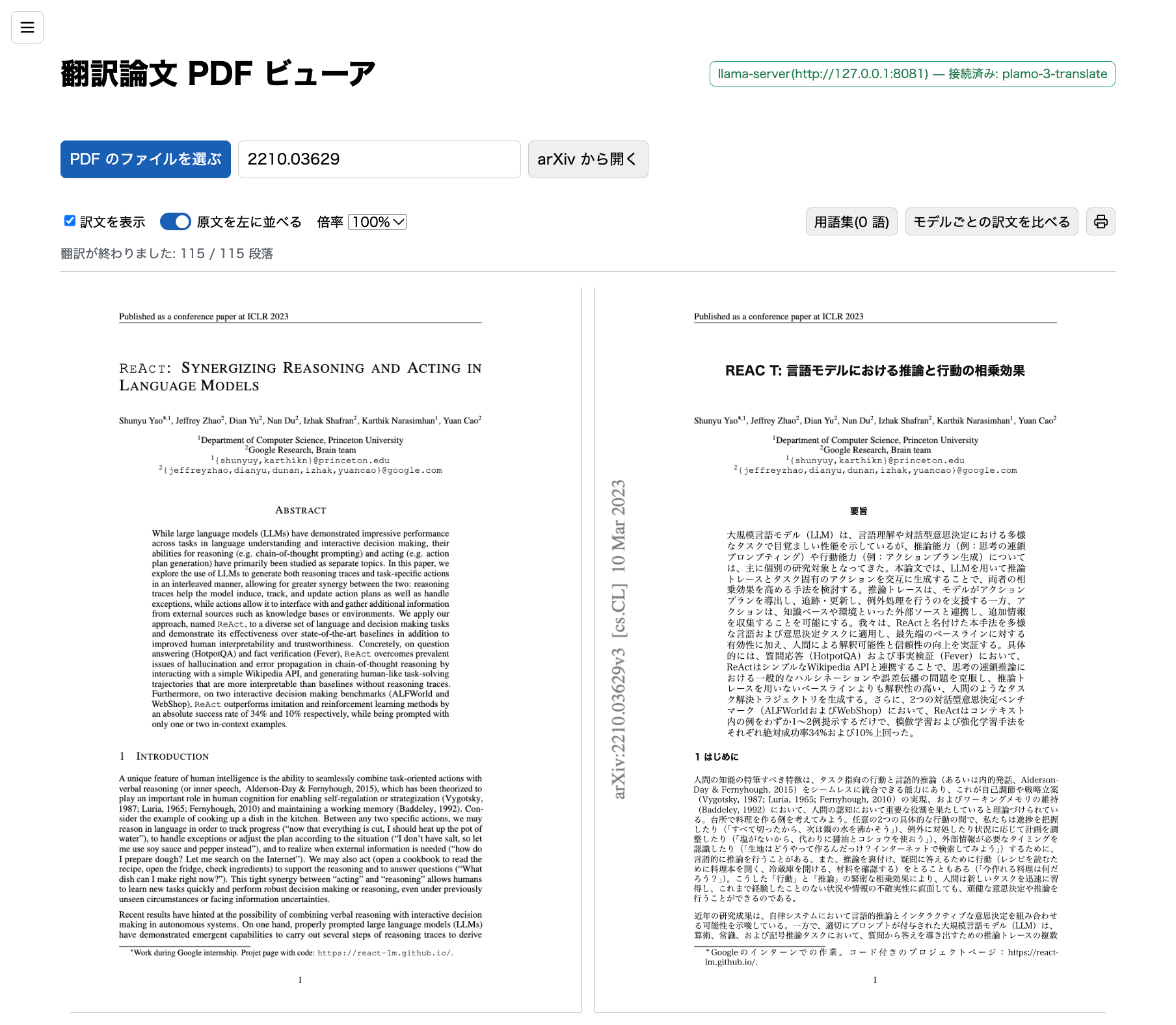
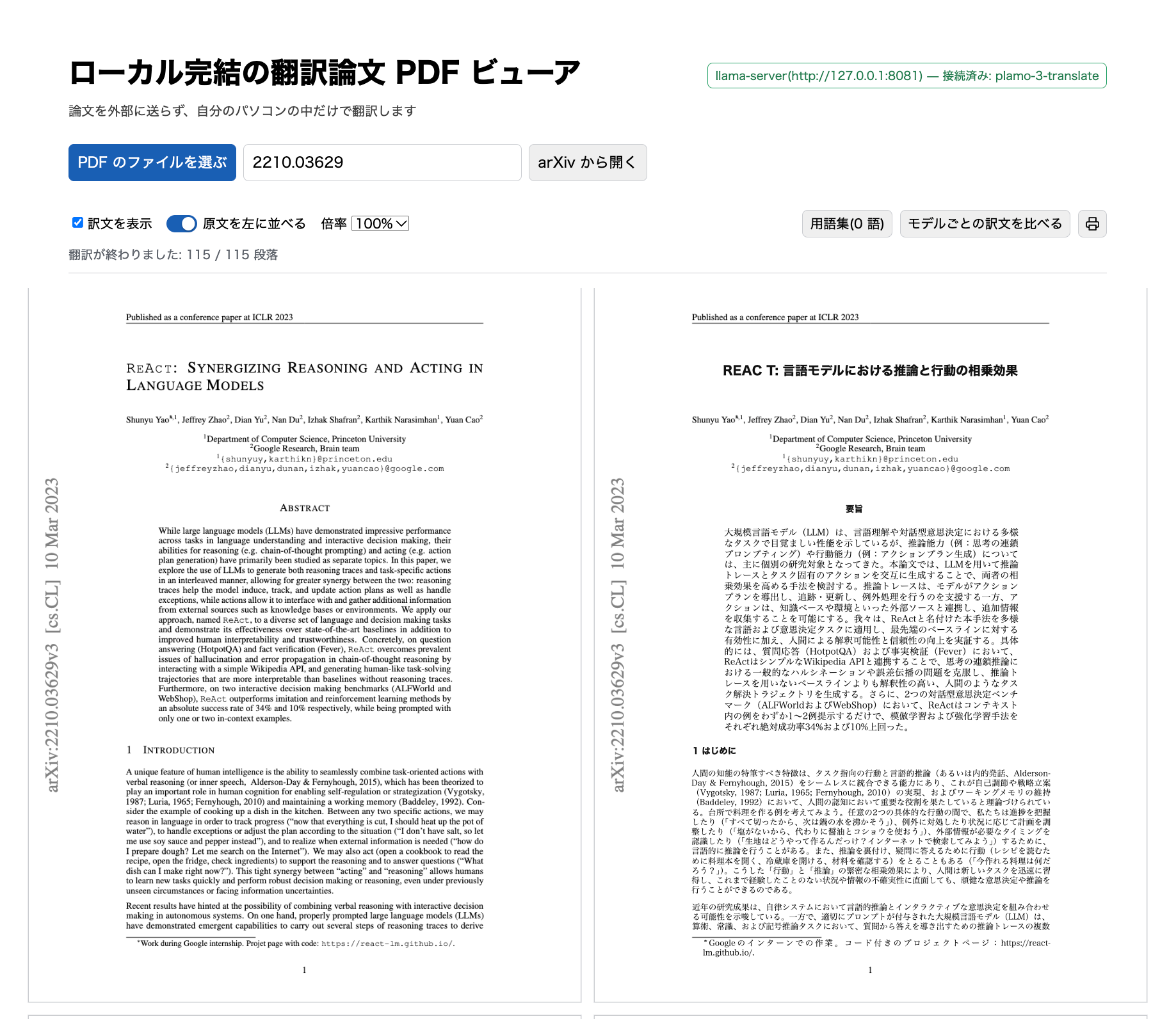
feat: 題名と README で、自分のパソコンの中で完結することを打ち出す

diff --git a/src/App.tsx b/src/App.tsx
@@ -69,7 +69,10 @@ export function App() {
 
         <main className="app">
           <header className="app-head">
-            <h1>翻訳論文 PDF ビューア</h1>
+            <div className="app-title">
+              <h1>ローカル完結の翻訳論文 PDF ビューア</h1>
+              <p className="tagline">論文を外部に送らず、自分のパソコンの中だけで翻訳します</p>
+            </div>
             <ConnectionBadge onOpen={() => setTab('server')} />
           </header>
 

diff --git a/index.html b/index.html
@@ -3,7 +3,8 @@
   <head>
     <meta charset="UTF-8" />
     <meta name="viewport" content="width=device-width, initial-scale=1.0" />
-    <title>翻訳論文 PDF ビューア</title>
+    <title>ローカル完結の翻訳論文 PDF ビューア</title>
+    <meta name="description" content="英語の論文 PDF を、外部に送らず、自分のパソコンの中だけで日本語に翻訳して読むアプリ" />
   </head>
   <body>
     <div id="root"></div>

diff --git a/src/index.css b/src/index.css
@@ -465,6 +465,16 @@ footer {
   justify-content: space-between;
 }
 
+.app-title h1 {
+  margin-bottom: 0.2rem;
+}
+
+.tagline {
+  margin: 0;
+  font-size: 0.9rem;
+  opacity: 0.75;
+}
+
 .badge.ok {
   border-color: light-dark(#26a269, #57e389);
   color: light-dark(#1b7a4c, #8ff0a4);

diff --git a/note/043_local-first-title.md b/note/043_local-first-title.md
@@ -1,0 +1,38 @@
+# 043 題名と README で、自分のパソコンの中で完結することを打ち出す
+
+## 目的
+
+「翻訳論文 PDF ビューア」という題名だけでは、このアプリの特徴が伝わらない。
+翻訳が自分のパソコンの中で完結することを、題名と README の先頭で伝える。
+
+## 変更内容
+
+- `src/App.tsx`: 題名を「ローカル完結の翻訳論文 PDF ビューア」にした。題名の下に、1 行の説明「論文を外部に送らず、自分のパソコンの中だけで翻訳します」を加えた。
+- `src/index.css`: 題名と説明の行の見た目(`.app-title`、`.tagline`)を加えた。
+- `index.html`: ページの題名を同じ名前にした。ページの説明(`meta name="description"`)を加えた。
+- `docs/architecture.svg`: 図の題名(`title` の要素)を同じ名前にした。図の見た目は変わらない。
+- `docs/screenshot.png`: 新しい題名の画面で撮り直した。撮り方は note/040 と同じ。
+- `README.md`: 題名を同じ名前にした。題名のすぐ下に、太字の 1 行と、次の 2 つの一覧を加えた。
+  - 自分のパソコンの中で完結するもの(翻訳、PDF の読み取りとレイアウト検出、保存、利用の登録が要らないこと)
+  - インターネットに接続する場合(モデルのファイルの取得、arXiv からの PDF の取得)
+
+## 設計判断
+
+- 名前は、もとの「翻訳論文 PDF ビューア」を残し、前に「ローカル完結の」を付けた。もとの名前で覚えている人にも、同じアプリだと分かるためである。名前は、利用者に選んでもらったものではなく、こちらで決めた。
+- リポジトリの名前(`translated-paper-pdf-viewer`)と、`package.json` の `name` は変えていない。URL と、複製したあとのフォルダーの名前が変わるためである。
+- README には、インターネットに接続する場合も書いた。「完結する」とだけ書くと、モデルの取得のときにも接続しないと読めるためである。
+- 「原文を送る先は 127.0.0.1 だけ」には、「既定の設定では」を付けた。翻訳サーバーの URL は、設定で書き換えられるためである。
+- インターネットに接続する先は、`src/` の中の URL を検索して確かめた。見つかったのは、arXiv(`src/pdf/arxiv.ts`)と、レイアウト検出のモデルを取得する Hugging Face(`src/layout/ortWebClient.ts`)だった。翻訳のモデルは、llama-server が Hugging Face から取得する。
+
+## 動作確認
+
+- arXiv 2210.03629 を開いた画面で、題名と説明の行が表示され、接続の表示が同じ行の右端にあることを、画像で確かめた。
+- ブラウザのタブの題名が、新しい名前になっていることを確かめた。
+- 単体テストは 491 件すべて成功した。ビルドも通った。
+- 未確認: 幅の狭い画面での、題名と接続の表示の折り返し。
+- 未確認: GitHub の上での README の表示。
+
+## 注意点・残課題
+
+- GitHub のリポジトリの説明文(About)は変えていない。変える場合は、GitHub の画面か、`gh repo edit --description` で設定する。
+- `docs/screenshot-figure.png` には題名が写っていないので、撮り直していない。

diff --git a/README.md b/README.md
@@ -1,9 +1,23 @@
-# 翻訳論文 PDF ビューア
+# ローカル完結の翻訳論文 PDF ビューア
+
+**論文を外部に送らず、自分のパソコンの中だけで翻訳します。**
 
 ![アプリの画面。左に英語の原文のページ、右に同じレイアウトのまま日本語に訳したページが並んでいる](docs/screenshot.png)
 
 英語の論文 PDF を開くと、自分のパソコンの中だけで翻訳し、元のレイアウトのまま日本語で読めます。
 上の画面は、左に原文、右に訳文を並べた表示です。
+
+自分のパソコンの中で完結するのは、次の 4 つです。
+
+- **翻訳**: 翻訳のモデル(PLaMo 3 Translate)は、自分のパソコンの上の llama-server で動きます。既定の設定では、原文を送る先は、同じパソコンの `127.0.0.1` だけです。
+- **PDF の読み取りとレイアウト検出**: ブラウザの中で行います。PDF のファイルを、どこにも送りません。
+- **保存**: 訳文と、開いた PDF の履歴は、ブラウザの中(IndexedDB)に保存します。
+- **利用の登録**: 翻訳サービスのアカウントも、API キーも要りません。
+
+インターネットに接続するのは、次の 2 つの場合だけです。どちらも、論文の本文や訳文を送りません。
+
+- モデルのファイルを Hugging Face から取得するとき(翻訳のモデルと、レイアウト検出のモデル)
+- arXiv の番号を指定して、論文の PDF を arXiv から取得するとき
 
 画面に写っている論文は、Yao ほか「ReAct: Synergizing Reasoning and Acting in Language Models」(arXiv:2210.03629v3)です。
 この論文は、[CC BY 4.0](https://creativecommons.org/licenses/by/4.0/) で公開されています。
